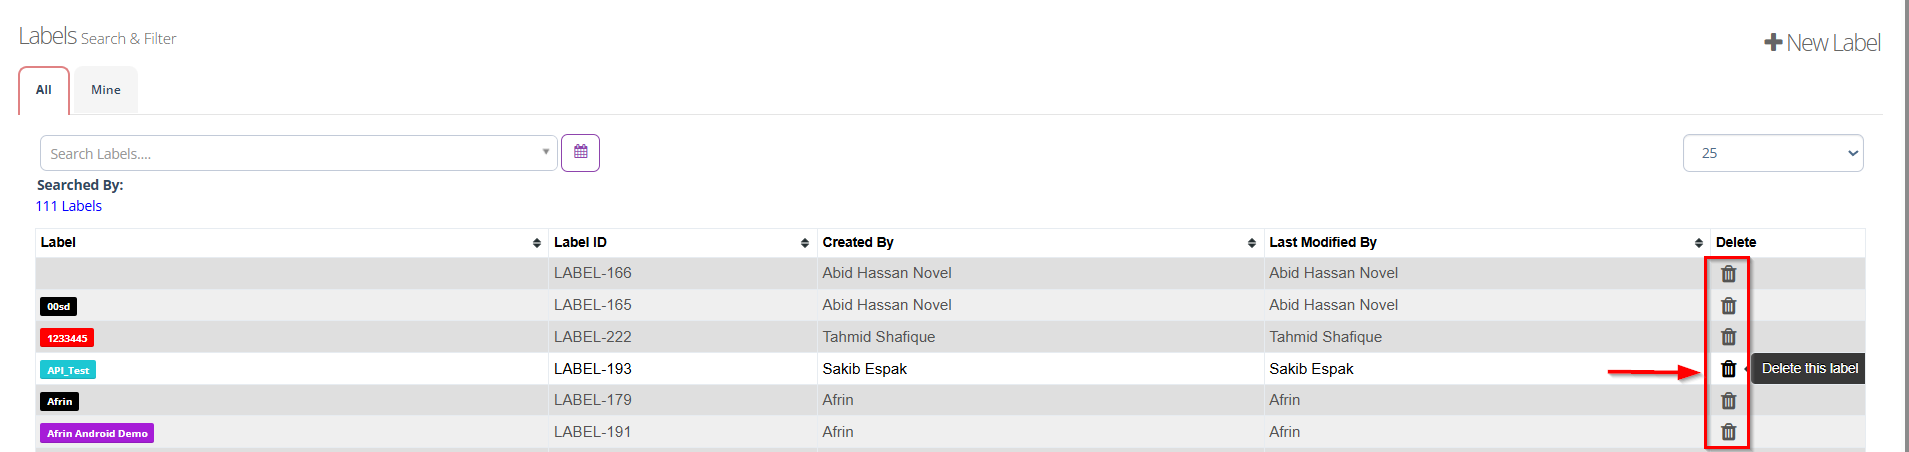
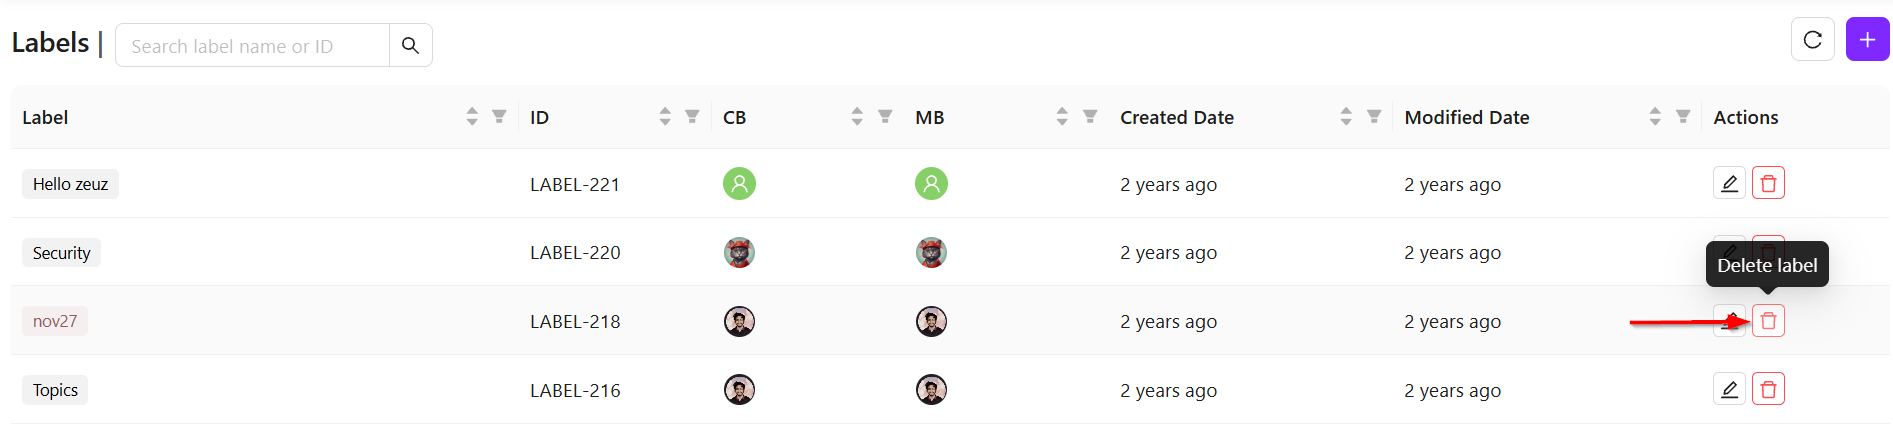
project docs

diff --git a/docs/zeuz-server/Project/Planning/create-and-manage-labels.md b/docs/zeuz-server/Project/Planning/create-and-manage-labels.md
@@ -46,45 +46,82 @@ adapting the tool to their needs.
 **color** in the form that appears.
 
 ## Features
-### Create a new label
+### Create / Search Labels
 - Navigate to the **Labels** page.
-- To create a new label, click the **+ New Label** button.
+- To search for a label, enter the **label name** or **label ID** in the search box. The displayed labels are automatically filtered based on our search criteria.
+
+![](/img/how-tos/how-to-create-and-manage-labels/labels-search.png)
+
+- To create a new label, click the **Create Label (+)** button to open the "Create Label" window. 
 - Enter the required fields below, such as:  
-  - **Label Name Field**: At the top, a text box labeled *Label Name....* is where the user types the name of the new label (e.g., *Test Label*).
-  - **Color Picker**:  
-    - A small color box with a dropdown lets the user select a color for the label.
-    - Clicking the color box opens a color palette where users can pick any color using the gradient area and rainbow slider.
-    - The hexadecimal code of the selected color is displayed below (e.g., `#ff0000` for red).
-    - Buttons such as, **choose** and **cancel** allow confirming or cancelling the color section.
-  - **Action Buttons**:  
-    - **CREATE LABEL**: Saves and creates the new label with the entered name and selected color.
-    - **CANCEL**: Closes the form without saving.
+  - The "Create Label" window allows us to create a new label by entering a **Label name** and selecting a **Color**. 
+  - Click the color box to open the color picker, where we can choose a color visually or enter a color value in **HEX**, **HSB**, or **RGB** format. 
+  - We can also adjust the color's opacity using the opacity slider.
+  - After entering the required information, click **Create** to save the label or **Cancel** to discard the changes.
+  
+![](/img/how-tos/how-to-create-and-manage-labels/label-create.png)
 
-![](/img/how-tos/how-to-create-and-manage-labels/label-details.png)
+![](/img/how-tos/how-to-create-and-manage-labels/label-color.png)
 
-### Delete a label
+- Click the **Refresh Labels** button to update the label list and display the latest labels available in the system.
+
+![](/img/how-tos/how-to-create-and-manage-labels/refresh-labels.png)
+ 
+### Edit a Label
+- Click the specific label that needs to be edited.
+- To edit a label, click the **Edit Label** button corresponding to the label we want to modify.
+- After clicking the **Edit Label** button, the "Edit Label" window appears.
+- Enter the required fields below, such as:  
+  - The "Edit Label" window allows you to update an existing label by modifying its **Label name** and **Color**. 
+  - Click the color box to open the color picker, where we can choose a new color visually or specify it using **HEX**, **HSB**, or **RGB** values.
+  - We can also adjust the color's opacity using the opacity slider.
+  - After making the desired changes, click **Save** to apply the updates or **Cancel** to discard the changes.
+
+![](/img/how-tos/how-to-create-and-manage-labels/label-edit.png)
+
+![](/img/how-tos/how-to-create-and-manage-labels/edited-label.png)
+
+### Delete a Label
 - To delete a label, click the **Delete** button located on the right side of that specific label.
-- A confirmation pop-up appears when a user tries to delete a label. It prompts the user to confirm the deletion. Two options are available:  
-  - **OK**: Confirms and deletes the label.
-  - **Cancel**: Closes the pop-up without deleting anything.
+- The **Delete Label** confirmation dialog is displayed when we choose to delete a label. 
+- Review the confirmation message, which indicates that the label will be removed from all linked items.
+- Click **Delete** to permanently remove the label, or **Cancel** to close the dialog without deleting the label.
 
 ![](/img/how-tos/how-to-create-and-manage-labels/label-delete.png)
 
-![](/img/how-tos/how-to-create-and-manage-labels/sure-delete.png)
+![](/img/how-tos/how-to-create-and-manage-labels/delete-remove.png)
 
-### Create/Edit label
-- Click the specific label that needs to be edited.
-- Navigate to the **Create/Edit Label** page.
-- It allows a user to modify an existing label or create a new one.
-- On the page:  
-  - The **Details** tab is selected, indicating that the user is working with the basic label information.
-  - A field labeled **New Label Name** allows the user to type or update the name of the label.
-  - A section named **Label Color** provides a color selection area where the user can choose a visual color for the label.
-  - A **Save** button appears below the fields, allowing the user to confirm and store the changes.
-- On the right side, audit information is shown. It records who created the label and who last modified it, along with the respective dates.
-- The **Requirements**, **Tasks**, **Bugs** and **Test cases** tabs indicate where the label can be associated.
+### Managing Labels in the Table
+- The **Labels Table** provides an overview of all available labels in the system.
+- The table displays the following details:  
+  - **Label**: Displays the name of the label.
+  - **ID**: Displays the unique identifier assigned to the label.
+  - **Created By (CB)**: Displays the user who created the label.
+  - **Modified By (MB)**: Displays the user who last modified the label.
+  - **Created Date**: Displays when the label was created.
+  - **Modified Date**: Displays when the label was last updated.
+  - **Actions**: Provides options to edit or delete the label.
 
-![](/img/how-tos/how-to-create-and-manage-labels/edit-label.png)
+![](/img/how-tos/how-to-create-and-manage-labels/label-table.png)
+
+- Each column supports sorting, and selected columns provide filtering options to help locate specific labels, such as:  
+  - **Click to sort ascending**: It arranges the values in the selected column in ascending order.
+  - **Click to sort descending**: It arranges the values in the selected column in descending order.
+  - **Click to cancel sorting**:  It means removing the applied sorting from the selected column and returning the table to its default order (or the original order defined by the application).
+
+![](/img/how-tos/how-to-create-and-manage-labels/label-ascending.png)
+
+![](/img/how-tos/how-to-create-and-manage-labels/label-descending.png)
+
+![](/img/how-tos/how-to-create-and-manage-labels/cancel-sorting.png)
+
+### Label Filter
+- The **Label Filter** panel allows users to filter the labels displayed in the **Labels Table**.
+- Enter a keyword in the **Search** box to find a specific label, then select one or more labels using the corresponding checkboxes.
+- Click **OK** to apply the selected filters and update the table.
+- Click **Reset** to clear all selected filters and display all labels.
+
+![](/img/how-tos/how-to-create-and-manage-labels/label-filter.png)
 
 ## FAQs / Troubleshooting
 ### FAQs
